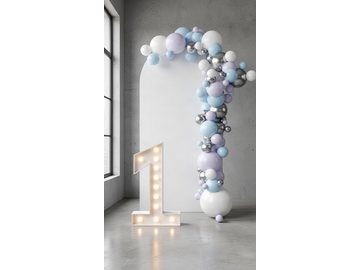
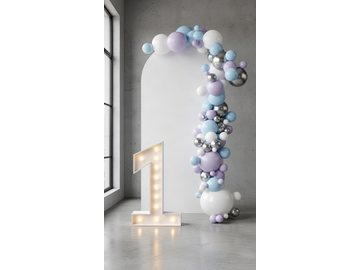
Readable lilac, denser lower cascade, and fix plinth+cutout+number
1. THE PURPLE WAS INVISIBLE. Silk 850 Light Amethyst carries the catalogue
   renderLabel "very pale cool lavender, almost white". That is honest for the
   strict colour lock, but it also reached the POSITIVE prompt, and "almost
   white" is what the render painted — there was no telling there was a purple
   in the palette at all. HEX_POSITIVE_LABEL now names the hue for that hex
   without the qualifier; getVisualLabel keeps the full description for the
   lock, so nothing about the colour lock changes.

2. DENSITY in the stretch that was circled. The whole-garland filler went 46 ->
   70 balloons and is now weighted toward the LOWER half of the cascade. The top
   was already dense because the crown ramp piles mass into the corner; the
   bottom third was the thin part.

3. PLINTH + CUTOUT + NUMBER. Reproduced in the guide before touching anything:
   with a standee reserving the left, the plinth on centre and the garland on the
   right, there is no free floor span left, and the number was dropped into the
   least-bad gap — on top of the plinth, inside the cascade.

   The plinth row now SLIDES sideways by exactly the shortfall, clamped to what
   the frame has. This is positioning, not scaling: every prop keeps its real
   centimetres, and with no number the row stays dead centre. An earlier attempt
   shifted by a flat fraction of panel width and pushed a three-plinth row off
   the canvas; this one computes what is actually needed.
[…]

diff --git a/lib/generateStructureSilhouette.ts b/lib/generateStructureSilhouette.ts
@@ -933,20 +933,46 @@ export function generateStructureSilhouette(
     ? Math.min(plinthMaxDia * 1.5, (W * 0.86 - plinthMaxDia) / (plinthCount - 1))
     : plinthMaxDia * 1.5;
 
-  // 2026-09-09: a row of two or three plinths fills the middle of a portrait
-  // frame, and a 90cm marquee number then has nowhere to stand — it was drawn
-  // touching a column and the render stood it ON one, reported twice. When both
-  // are in the scene the plinth row slides right to open a slot on the left.
-  // With one plinth (or no number) it stays dead centre, which is where the
-  // customer asked for it on 2026-09-05.
+  // 2026-09-09: the plinth row SLIDES to open a slot for the marquee number.
+  //
+  // The number is 90cm and the frame is portrait, so on a scene that also has a
+  // character standee there is no free floor left: the standee owns the left,
+  // the plinth owns the middle, the garland owns the right, and the number was
+  // dropped into the least-bad gap — on top of the plinth, inside the cascade
+  // (customer report: "plinth+cutout+number eklenince sacmaladi").
+  //
+  // Moving the row is POSITIONING, not scaling: every prop keeps its own real
+  // centimetres, and with no number the row stays dead centre, which is where
+  // it was asked to be on 2026-09-05. An earlier attempt shifted by a flat
+  // fraction of the panel width and pushed a three-plinth row off the canvas;
+  // this one computes the exact shortfall and clamps it to what the frame has.
   const numberDigitCount = String(extras?.numberLight?.value ?? "").replace(/[^0-9]/g, "").slice(0, 2).length;
-  const wantsNumberSlot = !!extras?.numberLight?.enabled && numberDigitCount > 0 && plinthCount >= 2;
-  const widestPanelPw = Math.max(...layout.panels.map((pl) => pl.pw), 1);
-  // Sliding the row sideways was tried and pushed it off the canvas edge; the
-  // row stays centred and the number is placed into whichever floor span is
-  // actually free (see the marquee block).
-  void wantsNumberSlot; void widestPanelPw;
-  const decorCx = decorCxBase;
+  const wantsNumberSlot = !!extras?.numberLight?.enabled && numberDigitCount > 0 && plinthCount > 0;
+  const plinthShiftPx = (() => {
+    if (!wantsNumberSlot || layout.panels.length === 0) return 0;
+    const refP = layout.panels.reduce((a, b) => (b.floorY - b.apexY > a.floorY - a.apexY ? b : a));
+    const pxPerCmEarly = (refP.floorY - refP.apexY) / Math.max(1, backdropItems[refP.idx]?.heightCm ?? 200);
+    const digitHEarly  = 90 * pxPerCmEarly;
+    const digitWEarly  = digitHEarly * 0.60;
+    // Same glyph-width estimate the marquee block uses — the painted numeral,
+    // not its em box.
+    const glyphWEarly  = digitHEarly * 0.46 * numberDigitCount
+      + digitWEarly * 0.14 * (numberDigitCount - 1);
+    const marginEarly  = digitHEarly * 0.10;
+    // The standee band is reserved before it is drawn, so its right edge is
+    // recomputed here with the same formula the standee block uses.
+    const hasCutoutsEarly = (cutoutGuideItems ?? []).filter((i) => i.quantity > 0).length > 0;
+    const standeeRightEarly = hasCutoutsEarly
+      ? groupLeftEdge + (layout.panels[0]?.pw ?? 0) * 0.12
+      : 0;
+    const leftBound   = Math.max(marginEarly, standeeRightEarly + marginEarly);
+    const rowHalf     = ((plinthCount - 1) / 2) * plinthSpacing + plinthMaxDia / 2;
+    const needed      = (leftBound + glyphWEarly + marginEarly) - (decorCxBase - rowHalf);
+    if (needed <= 0) return 0;
+    const maxShift    = Math.max(0, (W - marginEarly) - (decorCxBase + rowHalf));
+    return Math.min(needed, maxShift);
+  })();
+  const decorCx = decorCxBase + plinthShiftPx;
 
   // 2026-09-05: the plinth stands FORWARD of the decor, nearer the camera, not
   // level with the backdrop. On a balloon ring especially it was sitting on the
@@ -996,7 +1022,12 @@ export function generateStructureSilhouette(
       // the model was re-inventing the row rather than copying it. Filled
       // markers get reproduced as objects; that is the whole reason
       // plinthFilledCylinder exists.
-      plinthLayer.push(panelsCarrySurfaceContent || plinthCount > 1
+      // 2026-09-09: and whenever a marquee number is in the scene. Standing
+      // next to a bold glyph, a faint outline cylinder was read as a SECOND
+      // numeral — the render came back with two 1s, the same way the standee
+      // placeholder did on 2026-09-08. A solid cylinder with an elliptical top
+      // cannot be mistaken for a letterform.
+      plinthLayer.push(panelsCarrySurfaceContent || plinthCount > 1 || wantsNumberSlot
         ? plinthFilledCylinder(plinthCx, plinthBottomY, p.heightPx, p.diameterPx)
         : plinthEdge(plinthCx, plinthBottomY, p.heightPx, p.diameterPx));
     }
@@ -1738,9 +1769,16 @@ export function generateStructureSilhouette(
           // band instead of scattering into the wall; `put` rejects anything
           // that would sit too deep inside a neighbour.
           if (crownOverTop) {
+            // 2026-09-09: 46 -> 70, and weighted toward the LOWER half of the
+            // cascade. The customer circled the bottom third of the vertical
+            // run as too thin; the top was already dense because the crown
+            // ramp piles mass into the corner.
             const anchors = [...placed];
-            for (let i = 0; i < 46; i++) {
-              const q = anchors[Math.floor(baseRnd() * anchors.length)];
+            const midY = p.apexY + (p.floorY - p.apexY) * 0.45;
+            const lower = anchors.filter((q) => q.y > midY);
+            for (let i = 0; i < 70; i++) {
+              const pool = (i % 3 !== 0 && lower.length > 0) ? lower : anchors;
+              const q = pool[Math.floor(baseRnd() * pool.length)];
               if (!q) break;
               const ang = baseRnd() * Math.PI * 2;
               const rr  = (baseRnd() < 0.45 ? rSmall * 0.62 : rSmall) * (0.85 + baseRnd() * 0.5);

diff --git a/lib/renderPrompts/buildLayoutRefEditPrompt.ts b/lib/renderPrompts/buildLayoutRefEditPrompt.ts
@@ -896,7 +896,12 @@ export function buildLayoutRefEditPrompt(
 
   const frontNoCharactersLine = sceneModel.cutouts?.mode === "standees"
     ? `Do NOT draw any person, character, figure, doll or cutout in this image — characters are added ` +
-      `afterwards. The floor stays empty where one would stand. `
+      `afterwards. The far LEFT of the floor and the wall above it stay completely empty — no balloons, ` +
+      `no garland, no cluster and no props there, only bare floor and bare wall. ` +
+      // 2026-09-09: the ban used to cover people only, so the render filled
+      // the reserved standee footprint with a second balloon garland instead
+      // — and the composited character then landed on top of it.
+      `The balloon garland stays on the RIGHT side only. `
     : "";
 
   const frontNumDigits = String(sceneModel.numberLight?.value ?? "").replace(/[^0-9]/g, "").slice(0, 2);

diff --git a/lib/renderPrompts/colorLabels.ts b/lib/renderPrompts/colorLabels.ts
@@ -44,6 +44,13 @@ export const HEX_POSITIVE_LABEL: Record<string, string> = {
   "#bbf7d0": "pale mint green",
   "#ffffff": "pure white",
   "#fecdd3": "blush pearl pink",
+  // 2026-09-09: Silk 850 Light Amethyst. Its catalogue renderLabel is "very
+  // pale cool lavender, almost white", which is honest for the strict colour
+  // lock but flattened it to white in the POSITIVE prompt — the customer could
+  // not tell there was a purple in the palette at all. The hue is named here
+  // without the "almost white" qualifier; getVisualLabel keeps the full
+  // description for the lock.
+  "#dcd7f2": "soft lilac",
 };
 
 /**

diff --git a/app/api/generate-controlled-render/route.ts b/app/api/generate-controlled-render/route.ts
@@ -159,7 +159,7 @@ function isAuthOrBillingError(message: string | null): boolean {
 // process (sufficient for a single-instance/dev deployment — not a
 // distributed cache). Bump RENDER_CACHE_VERSION whenever a prompt/negative
 // change should invalidate previously cached (now-stale) renders.
-const RENDER_CACHE_VERSION = "elsa-garland-marquee-one-v83";
+const RENDER_CACHE_VERSION = "lilac-readable-denser-cascade-v84";
 
 interface RenderCacheEntry {
   imageUrl: string;
